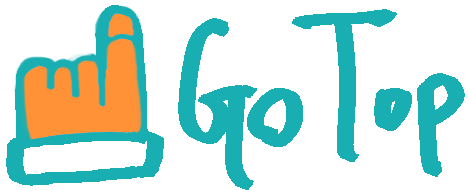
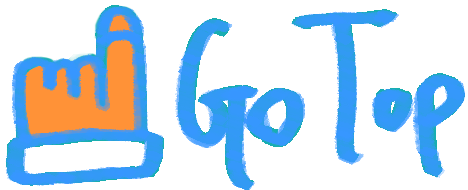
update color!

Changed region(s): [[0.0, 0.0263, 0.359, 0.9737], [0.6282, 0.0526, 1.0, 0.9474], [0.359, 0.1053, 0.6581, 1.0]]

diff --git a/css/commonUse_topBar+footer+goTop.css b/css/commonUse_topBar+footer+goTop.css
@@ -17,8 +17,8 @@ a:hover{
 
 /* 反白顏色 */
 ::selection {
-    background-color: #ffffff;
-    color: rgb(51, 51, 51);
+    background-color: #3796ff;
+    color: rgb(255, 255, 255);
 }
 
 .topBar {
@@ -97,11 +97,11 @@ button:focus {outline:0;}
 }
 
 .bar2{
-    background-color: #3796ff;
+    background-color: rgb(255, 255, 255);
 }
 
 .bar3{
-    background-color: #3796ff;
+    background-color: #ff9837;
 }
 
 .change .bar1 {
@@ -139,7 +139,7 @@ button:focus {outline:0;}
 #drawerItems {
     list-style: none;
     padding: 0;
-    margin-left: 11vw;
+    padding-left: 10.5vw;
     margin-top: 75px;
     font-size: 1.3rem;
 }
@@ -211,9 +211,6 @@ button:focus {outline:0;}
 }
 
 @media only screen and (max-width: 768px){
-    #drawerItems{
-        margin-left: 13vw;
-    }
     .contact{
         margin-left: 8vw;
     }
@@ -274,11 +271,6 @@ button:focus {outline:0;}
         padding-left:5vw;
     }
 }
-
-/* #footer .email{
-    font-size: 1rem;
-    margin-bottom: 0;
-} */
 
 #footer span{
     margin-bottom: 50px;

diff --git a/css/flexslider.css b/css/flexslider.css
@@ -218,7 +218,7 @@ html[xmlns] .flexslider .slides {
   width: 11px;
   height: 11px;
   display: block;
-  background: rgb(179, 179, 179);
+  background: rgb(255, 255, 255);
   cursor: pointer;
   font-size: 0px;
   -webkit-box-shadow: inset 0 0 3px rgba(0, 0, 0, 0.3);
@@ -232,7 +232,7 @@ html[xmlns] .flexslider .slides {
 }
 .flex-control-paging li a.flex-active {
   background: #000;
-  background: #19aeb1;
+  background: #3796ff;
   cursor: default;
 }
 .flex-control-thumbs {

diff --git a/index.html b/index.html
@@ -184,7 +184,7 @@
         }
 
         .carousel-indicators>li.active {
-            background-color: #19aeb1;
+            background-color: #3796ff;
         }
 
         #footer {
